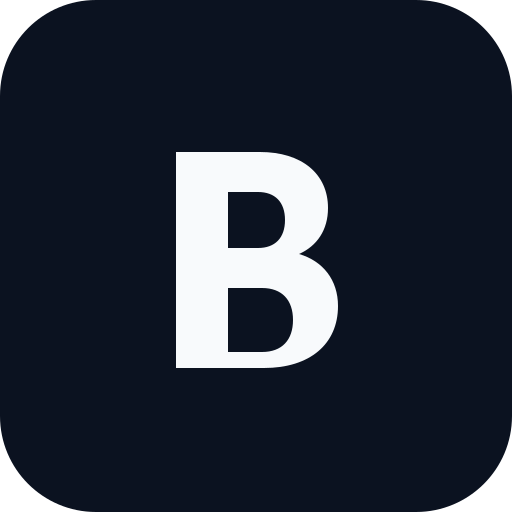
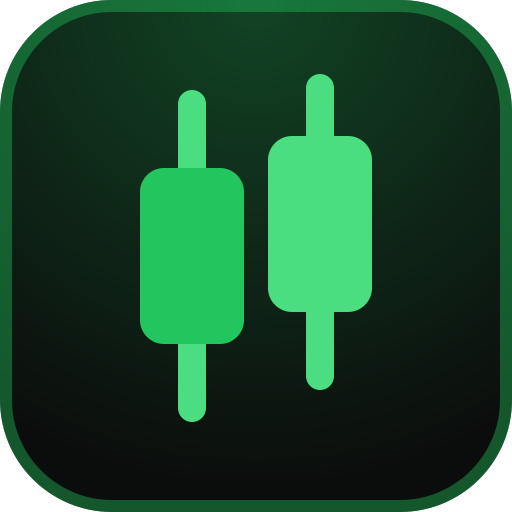
Ajustes de navbar, icone do app, notificacao e cards de lucro
- Navbar mostra so o texto BetHub, maior, sem o icone
- Novo icone do app na identidade verde (SVG, PNGs, maskable, apple e favicon)
  e manifest com as cores atuais
- Cards de lucro sem o icone de tendencia
- Data do jogo ocupa o espaco disponivel; sino de notificacao so como icone,
  amarelo preenchido quando ativo

diff --git a/src/components/kpi-card.tsx b/src/components/kpi-card.tsx
@@ -1,5 +1,4 @@
 import { ReactNode } from "react"
-import { TrendingDown, TrendingUp } from "lucide-react"
 import { cn } from "@/lib/utils"
 
 export function KpiCard({
@@ -7,16 +6,12 @@ export function KpiCard({
   value,
   detail,
   tone = "default",
-  trend = true,
 }: {
   label: string
   value: ReactNode
   detail?: ReactNode
   tone?: "default" | "profit" | "loss" | "warning"
-  trend?: boolean
 }) {
-  const Trend = tone === "loss" ? TrendingDown : TrendingUp
-
   return (
     <div className="min-w-0 rounded-panel border bg-card p-4 shadow-panel sm:p-5">
       <p className="text-[11px] font-medium tracking-[0.06em] text-muted-foreground uppercase">
@@ -24,16 +19,13 @@ export function KpiCard({
       </p>
       <p
         className={cn(
-          "numeric mt-2 flex items-center gap-1.5 text-lg leading-snug font-semibold tracking-tight [overflow-wrap:anywhere] sm:text-xl",
+          "numeric mt-2 text-lg leading-snug font-semibold tracking-tight [overflow-wrap:anywhere] sm:text-xl",
           tone === "profit" && "text-profit",
           tone === "loss" && "text-loss",
           tone === "warning" && "text-warning"
         )}
       >
-        {trend && (tone === "profit" || tone === "loss") && (
-          <Trend className="size-4 shrink-0" aria-hidden="true" />
-        )}
-        <span className="min-w-0">{value}</span>
+        {value}
       </p>
       {detail && <p className="mt-2 text-xs leading-relaxed text-muted-foreground">{detail}</p>}
     </div>

diff --git a/src/components/punter-create-form.tsx b/src/components/punter-create-form.tsx
@@ -497,7 +497,7 @@ export function PunterCreateForm({
                     name="eventDate"
                     type="datetime-local"
                     className={cn(
-                      "h-11 min-w-0 flex-1 sm:max-w-56",
+                      "h-11 min-w-0 flex-1",
                       draft.imported.eventDate && "ai-field"
                     )}
                     value={fields.eventDate}
@@ -518,10 +518,8 @@ export function PunterCreateForm({
                         : "Sem aviso para este jogo"
                     }
                     className={cn(
-                      "flex h-11 w-11 shrink-0 items-center justify-center rounded-lg border transition-colors",
-                      notificar
-                        ? "border-ring bg-field text-foreground"
-                        : "border-input bg-field text-muted-foreground hover:text-foreground"
+                      "flex size-11 shrink-0 items-center justify-center rounded-full transition-[color,transform] duration-150 outline-none focus-visible:ring-3 focus-visible:ring-ring/50 active:scale-90",
+                      notificar ? "text-warning" : "text-muted-foreground hover:text-foreground"
                     )}
                   >
                     <Bell className="size-5" fill={notificar ? "currentColor" : "none"} />

diff --git a/src/components/landing/brand-mark.tsx b/src/components/landing/brand-mark.tsx
@@ -1,26 +1,9 @@
-import { ChartCandlestick } from "lucide-react"
 import { cn } from "@/lib/utils"
 
-export function BrandMark({
-  className,
-  compact = false,
-}: {
-  className?: string
-  compact?: boolean
-}) {
+export function BrandMark({ className }: { className?: string }) {
   return (
-    <span className={cn("flex items-center gap-2.5", className)}>
-      <span className="flex size-8 shrink-0 items-center justify-center rounded-[10px] border border-primary/30 bg-primary/12">
-        <ChartCandlestick className="size-4 text-primary dark:text-brand-bright" aria-hidden="true" />
-      </span>
-      <span
-        className={cn(
-          "text-[15px] font-semibold tracking-tight text-foreground",
-          compact && "sr-only"
-        )}
-      >
-        <span className="text-primary dark:text-brand-bright">Bet</span>Hub
-      </span>
+    <span className={cn("text-xl font-semibold tracking-tight text-foreground", className)}>
+      <span className="text-primary dark:text-brand-bright">Bet</span>Hub
     </span>
   )
 }

diff --git a/src/app/layout.tsx b/src/app/layout.tsx
@@ -18,7 +18,13 @@ export const metadata: Metadata = {
   description: "Controlador pessoal de apostas",
   manifest: "/manifest.webmanifest",
   appleWebApp: { capable: true, title: "BetHub", statusBarStyle: "black-translucent" },
-  icons: { icon: "/icon-192.png", apple: "/icon-192.png" },
+  icons: {
+    icon: [
+      { url: "/icon.svg", type: "image/svg+xml" },
+      { url: "/icon-192.png", sizes: "192x192", type: "image/png" },
+    ],
+    apple: { url: "/apple-icon.png", sizes: "180x180" },
+  },
 };
 
 export default function RootLayout({

diff --git a/src/app/(app)/costs/page.tsx b/src/app/(app)/costs/page.tsx
@@ -166,7 +166,6 @@ export default function CostsPage() {
         <KpiCard
           label="Custo no mês"
           tone="loss"
-          trend={false}
           value={formatBRL(summary?.total ?? 0)}
           detail={`${period.from.split("-").reverse().join("/")} a ${period.to.split("-").reverse().join("/")}`}
         />

diff --git a/docs/DESIGN.md b/docs/DESIGN.md
@@ -82,10 +82,11 @@ Texto verde sobre fundo claro usa `primary`, porque `brand-bright` não chega a 
 - **Tabs:** trilho em pílula com borda de vidro; a aba ativa é uma pílula `bg-card` com borda.
 - **Table:** cabeçalho em microrrótulo (11px, maiúsculas, tracking de 0,06em), divisórias de 7%, hover de 2,5%. Odds em `chip-numeric`.
 - **ResultBadge:** pílula com ponto colorido e texto. Resultados "half" têm contorno sem preenchimento; Void e Cashout são neutros. Nunca depende só da cor.
-- **BrandMark:** ícone em quadrado de 10px de raio e "BetHub". Aparece no shell do app; as telas de autenticação não o exibem. `compact` esconde a palavra visualmente, mas mantém o texto para leitores de tela.
+- **BrandMark:** só o texto "BetHub" (20px, semibold, tracking apertado), com "Bet" em verde. Aparece na sidebar, no cabeçalho mobile, na gaveta de navegação e na tela de carregamento; as telas de autenticação não o exibem.
+- **Ícone do app** (`public/icon.svg`, PNGs de 192/512, maskable de 512, `apple-icon.png` de 180 e `src/app/favicon.ico`): quadrado `#0b0d0c` com halo e borda verdes e duas velas preenchidas. As velas substituem o gráfico de traço fino, que não se lia em 16px.
 - **Shell:** sidebar e cabeçalho mobile em `panel-glass` sobre a grade. O cabeçalho mobile respeita `safe-area-inset-top`. O item ativo é uma pílula `primary/10` com anel `primary/25` e ícone verde. A tela de carregamento mostra a grade e o BrandMark.
 - **PageHeader:** título de 26–28px semibold com tracking apertado, descrição opcional de 13,5px e área de ações à direita (quebra de linha no mobile). Sem eyebrow.
-- **KpiCard:** painel opaco com microrrótulo, valor em Roboto Mono (18px no mobile, 20px a partir de 640px) e linha de detalhe. `tone="profit" | "loss"` colore o valor e mostra o ícone de tendência; zero é neutro.
+- **KpiCard:** painel opaco com microrrótulo, valor em Roboto Mono (18px no mobile, 20px a partir de 640px) e linha de detalhe. `tone` (`profit`, `loss`, `warning`) colore o valor, sem ícone de tendência; lucro zero é neutro.
 - **Formulários principais** ("Nova aposta" e calculadora de surebet): `panel-glass` com halo verde atrás, entrada `rise-panel` (300ms) e botão de registrar em `size="lg"`. No Punter, `.form-main` dá `rounded-control` a inputs e selects de 44px. Conta e tipster usam o Select do sistema, com `<input type="hidden">` levando o valor ao FormData; a conta é validada no envio, com mensagem e foco no campo.
 - **Lista de apostas:** tabela a partir de 768px. Abaixo disso, lista no formato "Últimas apostas" do preview: ponto de resultado, seleção, evento, data · casa · stake, odd em chip, lucro, badge e as mesmas ações.
 - **Gráfico de lucro acumulado:** moldura interna de vidro, eixos em Roboto Mono de 11px, ponto final destacado e resumo "início → atual" no cabeçalho.
@@ -93,7 +94,7 @@ Texto verde sobre fundo claro usa `primary`, porque `brand-bright` não chega a 
 - **EmptyState:** ícone em círculo com borda de vidro, título, descrição opcional e ação. Usado em Casas & Contas, Freebets, Tipsters e Custos, dentro do painel da lista.
 - **Tema em Configurações:** grupo segmentado Claro / Escuro / Sistema (rádios nativos, com setas do teclado). O menu compacto "Aparência" continua na sidebar e no cabeçalho.
 - **Toasts (Sonner):** fundo e borda de vidro, raio de 16px, `shadow-panel`. Sucesso, erro e aviso usam `profit`, `loss` e `warning` misturados ao fundo.
-- **Telas auxiliares:** `PageHeader` e `KpiCard` como nas principais (Freebets em `warning`, Custos em `loss` sem seta de tendência). Tabelas em painel opaco `rounded-panel`. Em Casas & Contas, o logo fica numa moldura de 10px e o saldo total aparece como microrrótulo + valor mono.
+- **Telas auxiliares:** `PageHeader` e `KpiCard` como nas principais (Freebets em `warning`, Custos em `loss`). Tabelas em painel opaco `rounded-panel`. Em Casas & Contas, o logo fica numa moldura de 10px e o saldo total aparece como microrrótulo + valor mono.
 - **AuthShell:** layout compartilhado entre login e cadastro (KineticGrid, cabeçalho só com o seletor de tema, painel de vidro de 420px, halo). Welcome, login e cadastro seguem o tema escolhido.
 
 ## Tipografia e números
